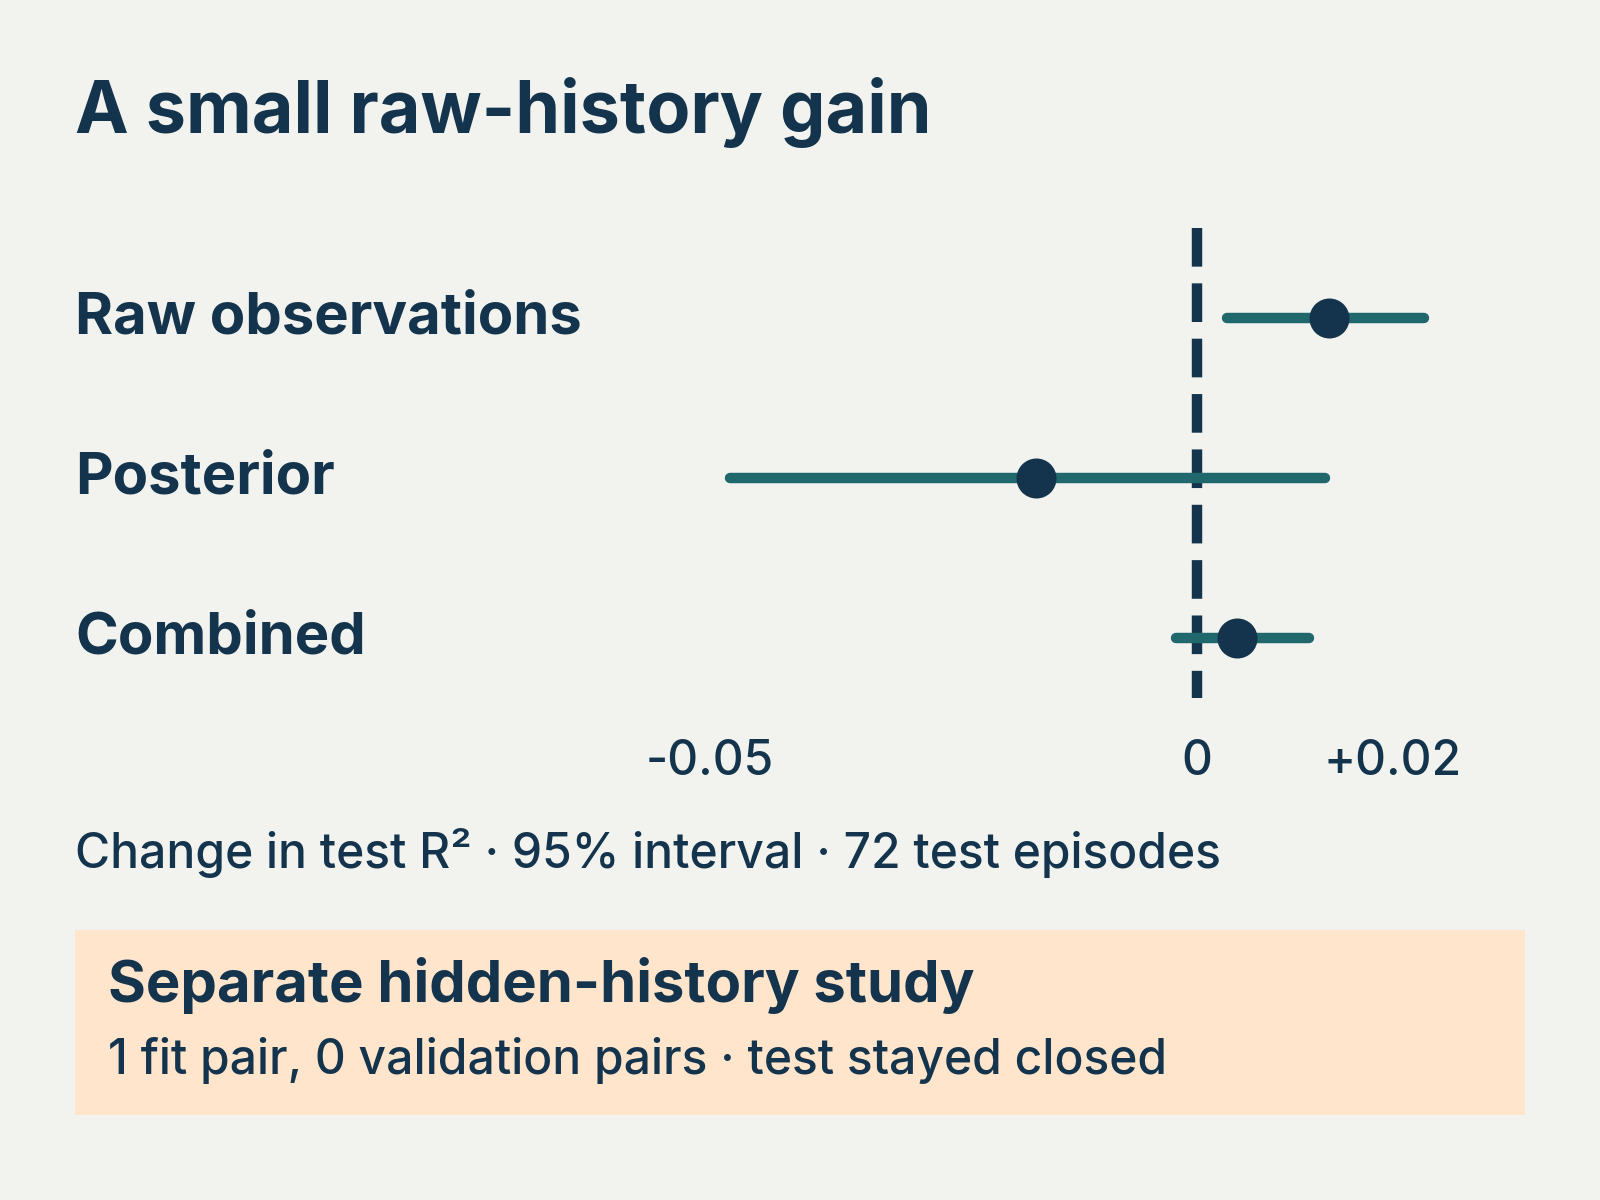
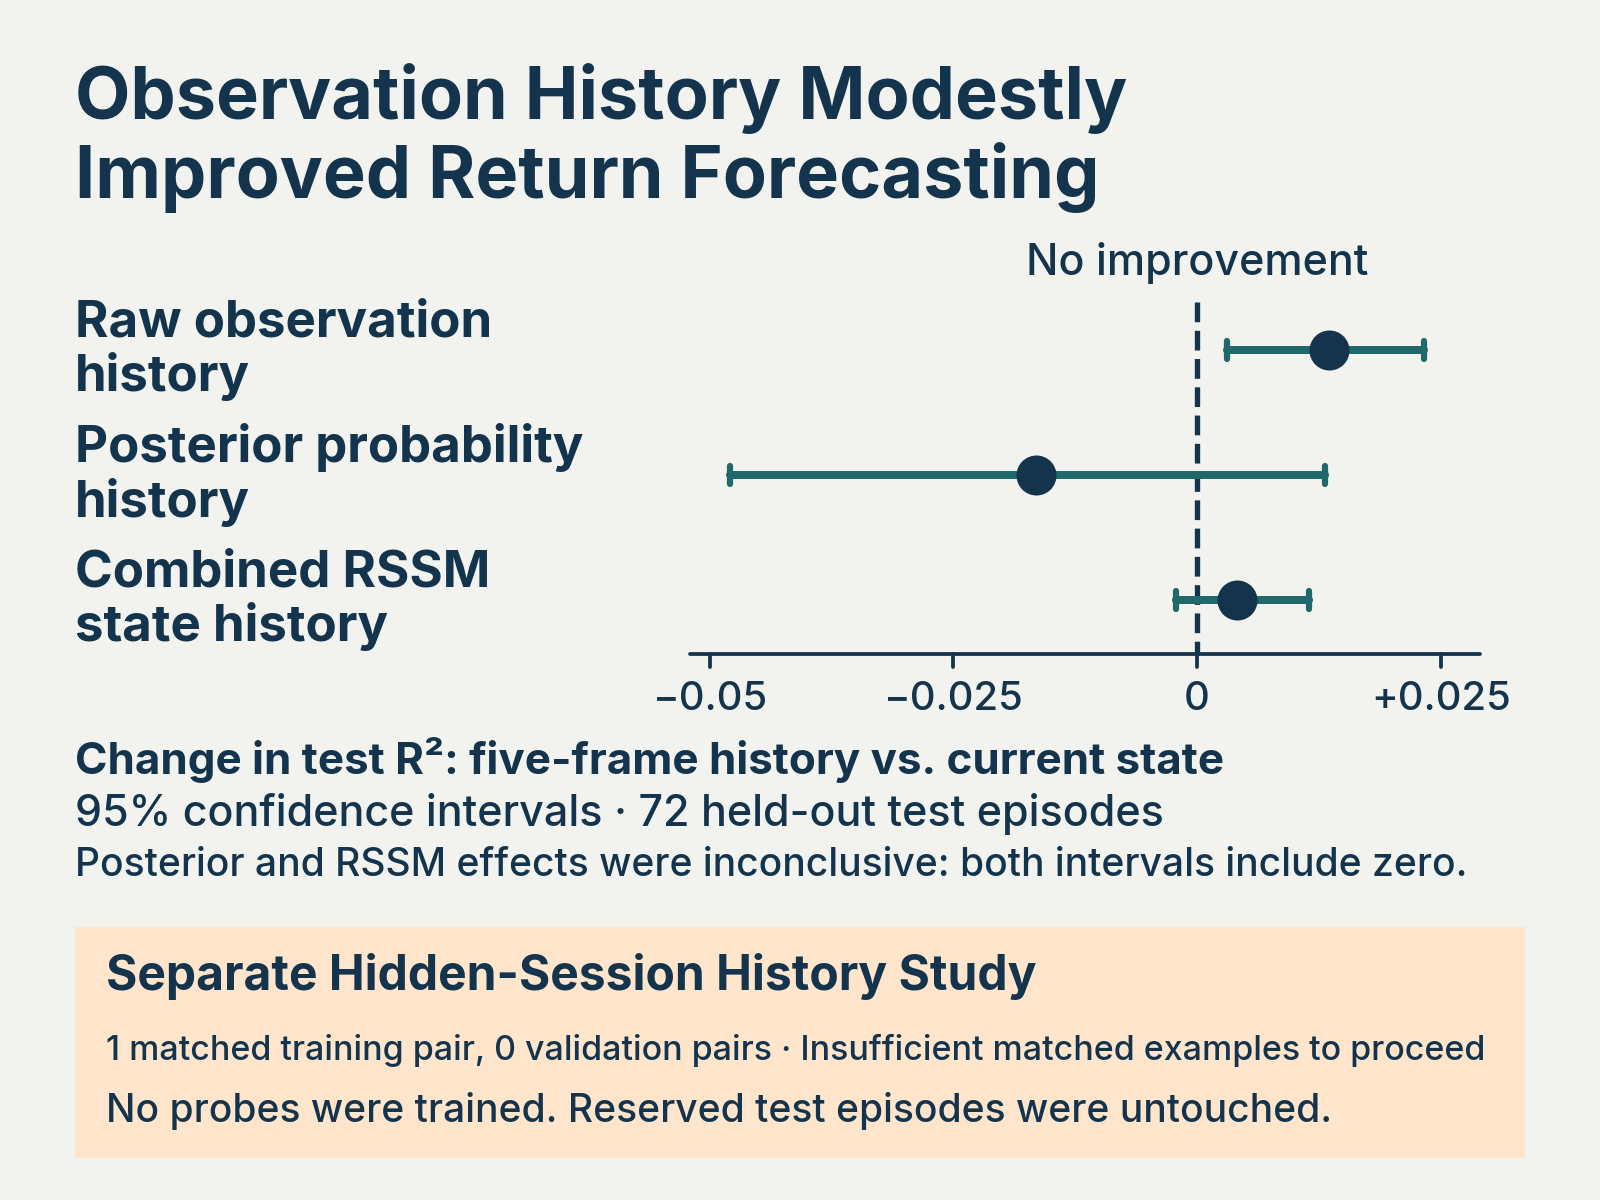
Clarify LinkedIn return forecasting evidence figure

diff --git a/docs/publication_figures/linkedin_layouts.py b/docs/publication_figures/linkedin_layouts.py
@@ -369,23 +369,46 @@ def memory_horizon():
 
 
 def cage_evidence():
-    g=Layout("A small raw-history gain","detailed")
-    data=D["return_forecast"]["representations"]
-    x=lambda v:690+(v+.052)/.081*790
-    g.line([x(0),x(0)],[228,698],dashed=True)
-    for i,(key,name) in enumerate((("observation","Raw observations"),("posterior","Posterior"),("hz","Combined"))):
-        row=data[key]["paired_history_increment"]["fixed_mlp_minus_current_mlp"]
-        y=318+i*160
-        g.text(75,y,name,"primary")
-        g.line([x(n) for n in row["delta_r2_ci95"]],[y,y],"dark_teal")
-        g.ax.plot(x(row["delta_r2"]),y,"o",color=g.color("navy","ivory","indicator"),markersize=8)
-    for v in (-.05,0,.02):
-        g.text(x(v),762,f"{v:+.02f}" if v else "0",align="center")
-    g.text(75,853,"Change in test R² · 95% interval · 72 test episodes")
-    g.box(75,930,1450,185,"pale_orange")
-    c=D["common_support"]["coverage"]
-    g.text(108,985,"Separate hidden-history study","primary",bg="pale_orange")
-    g.text(108,1060,f"{c['fit']['pairs']} fit pair, {c['validation']['pairs']} validation pairs · test stayed closed",bg="pale_orange")
+    g = Layout(None, "detailed")
+    g.text(75, 138, "Observation History Modestly\nImproved Return Forecasting", "title")
+    forecast = D["return_forecast"]
+    axis_min, axis_max = -.052, .029
+    plot_left, plot_right = 690, 1480
+
+    def x(value):
+        return plot_left + (value - axis_min) / (axis_max - axis_min) * (plot_right - plot_left)
+
+    g.text(x(0), 263, "No improvement", align="center", size=43)
+    g.line([x(0), x(0)], [302, 654], dashed=True, lw=1.2)
+    for (key, name), y in zip((
+        ("observation", "Raw observation\nhistory"),
+        ("posterior", "Posterior probability\nhistory"),
+        ("hz", "Combined RSSM\nstate history"),
+    ), (350, 475, 600), strict=True):
+        row = forecast["representations"][key]["paired_history_increment"]["fixed_mlp_minus_current_mlp"]
+        g.text(75, y, name, "primary", size=51)
+        low, high = row["delta_r2_ci95"]
+        g.line([x(low), x(high)], [y, y], "dark_teal", lw=1.8)
+        for endpoint in (low, high):
+            g.line([x(endpoint), x(endpoint)], [y - 9, y + 9], "dark_teal", lw=1.4)
+        g.ax.plot(x(row["delta_r2"]), y, "o", color=g.color("navy", "ivory", "indicator"), markersize=8)
+
+    g.line([plot_left, plot_right], [654, 654], lw=.85)
+    for value in (-.05, -.025, 0, .025):
+        g.line([x(value), x(value)], [654, 667], lw=.85)
+        label = f"{value:+.3f}".rstrip("0").replace("-", "−") if value else "0"
+        g.text(x(value), 700, label, align="center", size=40)
+
+    g.text(75, 760, "Change in test R²: five-frame history vs. current state", "primary", size=44)
+    g.text(75, 814, f"95% confidence intervals · {forecast['episode_counts']['test']} held-out test episodes", size=43)
+    g.text(75, 865, "Posterior and RSSM effects were inconclusive: both intervals include zero.", size=39)
+
+    g.box(75, 927, 1450, 231, "pale_orange")
+    coverage = D["common_support"]["coverage"]
+    g.text(106, 976, "Separate Hidden-Session History Study", "primary", bg="pale_orange", size=48)
+    g.text(106, 1050, f"{coverage['fit']['pairs']} matched training pair, {coverage['validation']['pairs']} validation pairs · "
+           "Insufficient matched examples to proceed", bg="pale_orange", size=34)
+    g.text(106, 1111, "No probes were trained. Reserved test episodes were untouched.", bg="pale_orange", size=39)
     return g.fig
 
 
